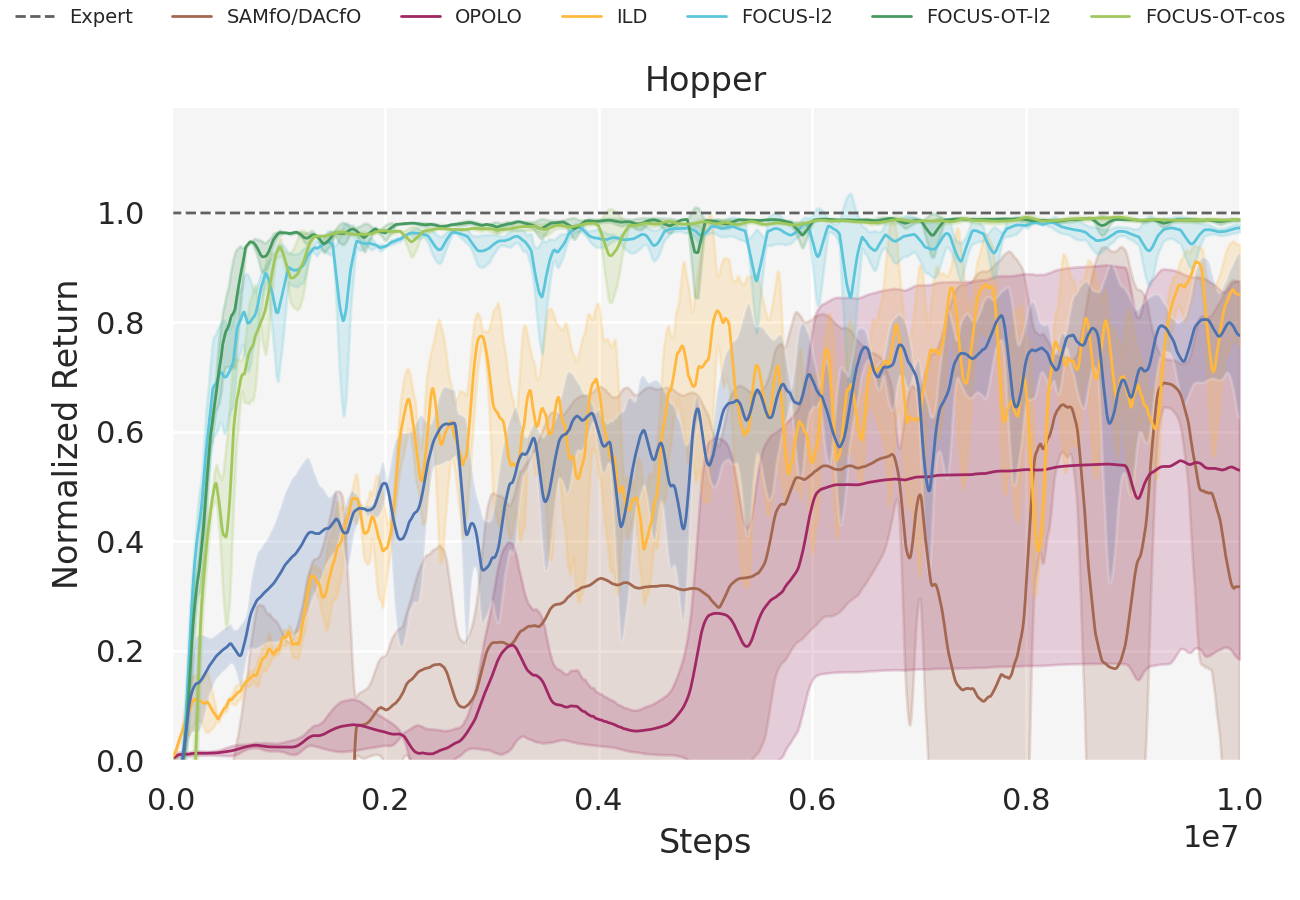
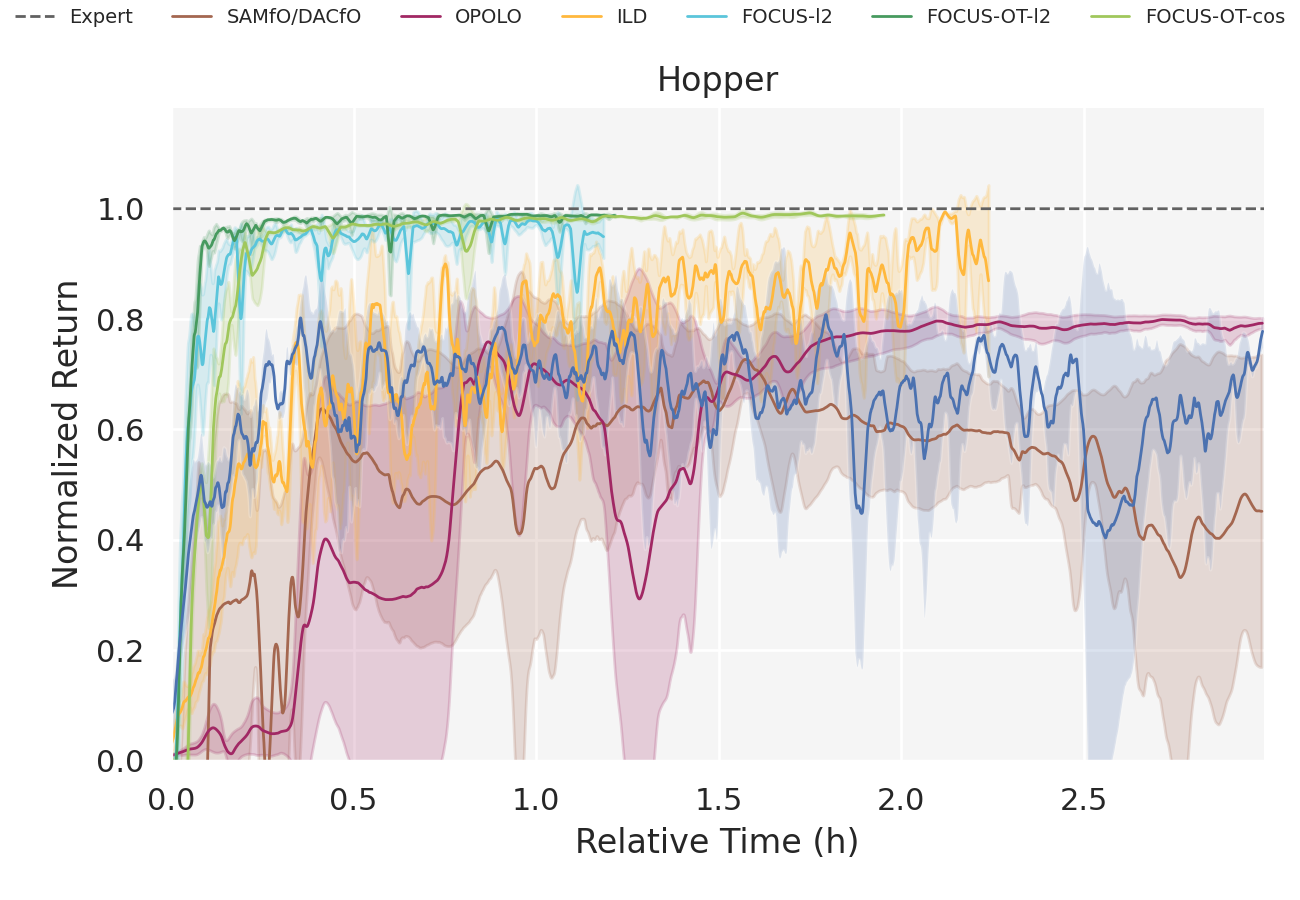
update

diff --git a/plotter/plotter.py b/plotter/plotter.py
@@ -807,4 +807,4 @@ def main(
 
 if __name__ == "__main__":
     # sync exp from the remote server
-    main(sync_remote=False, update_group_runs=False, create_plots=True, x_axis="steps")
+    main(sync_remote=False, update_group_runs=False, create_plots=True, x_axis="time")
